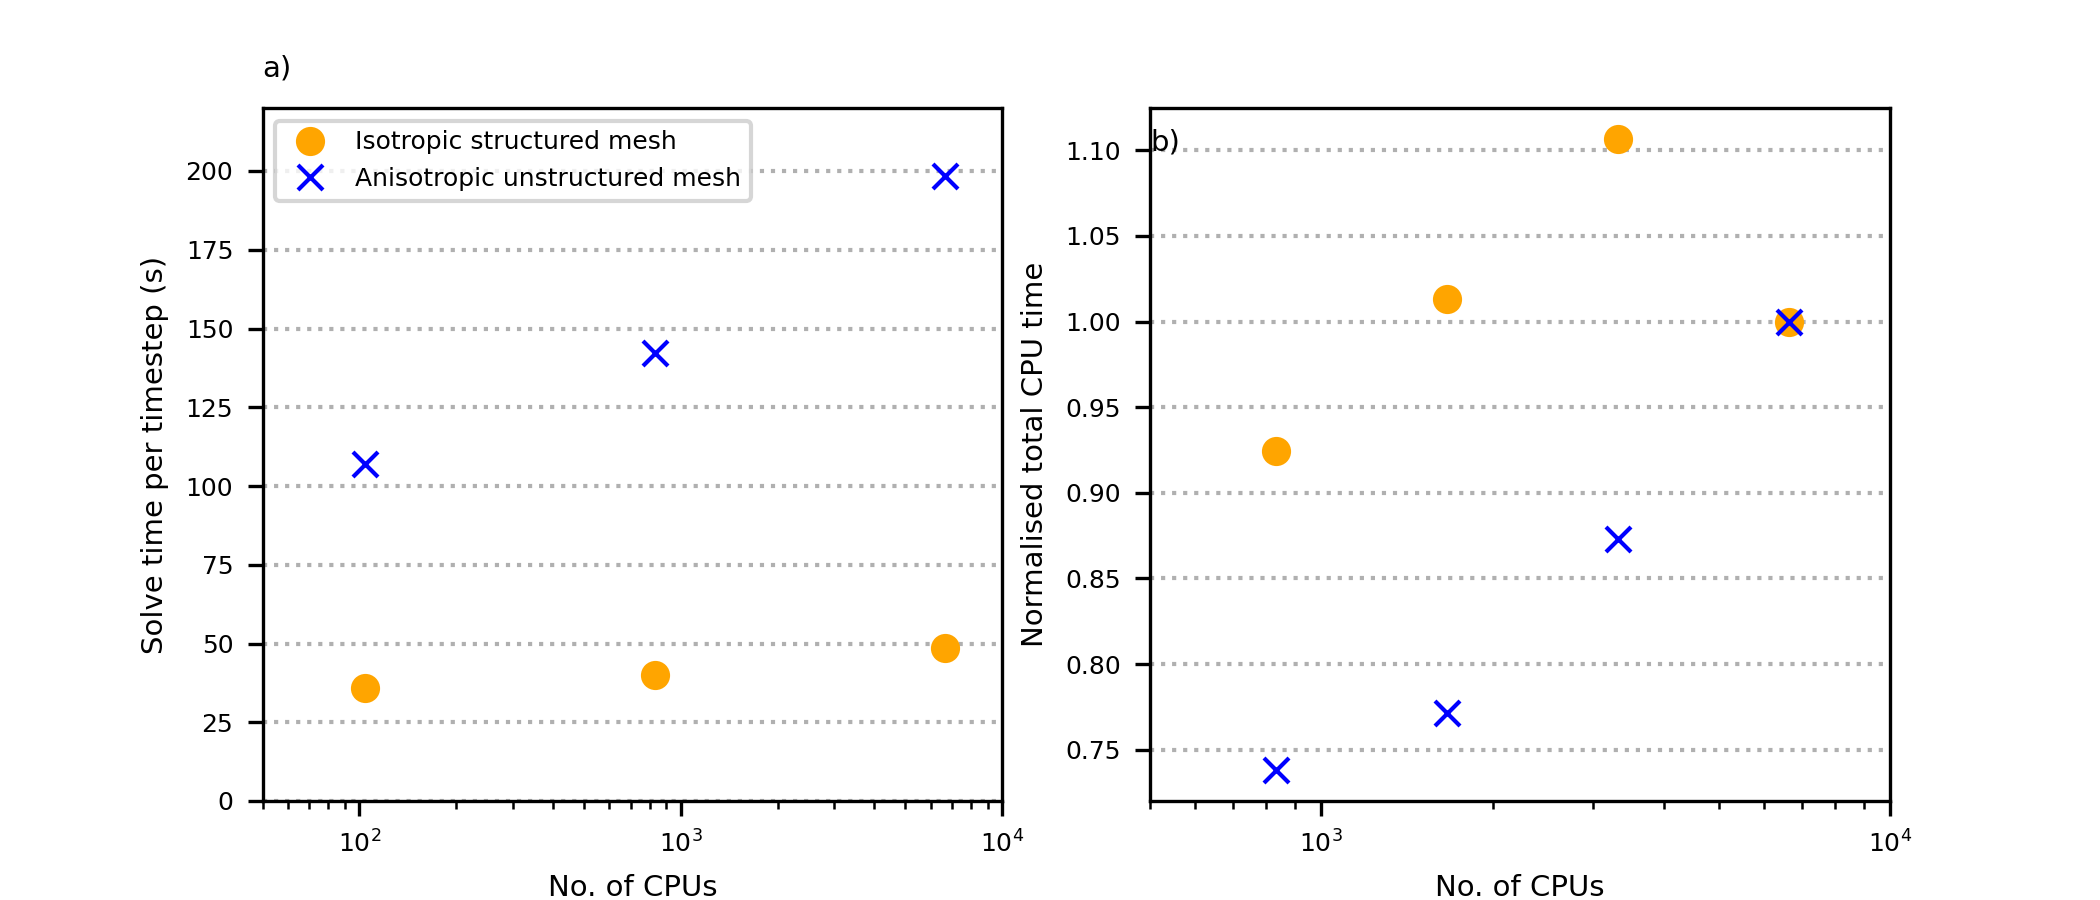
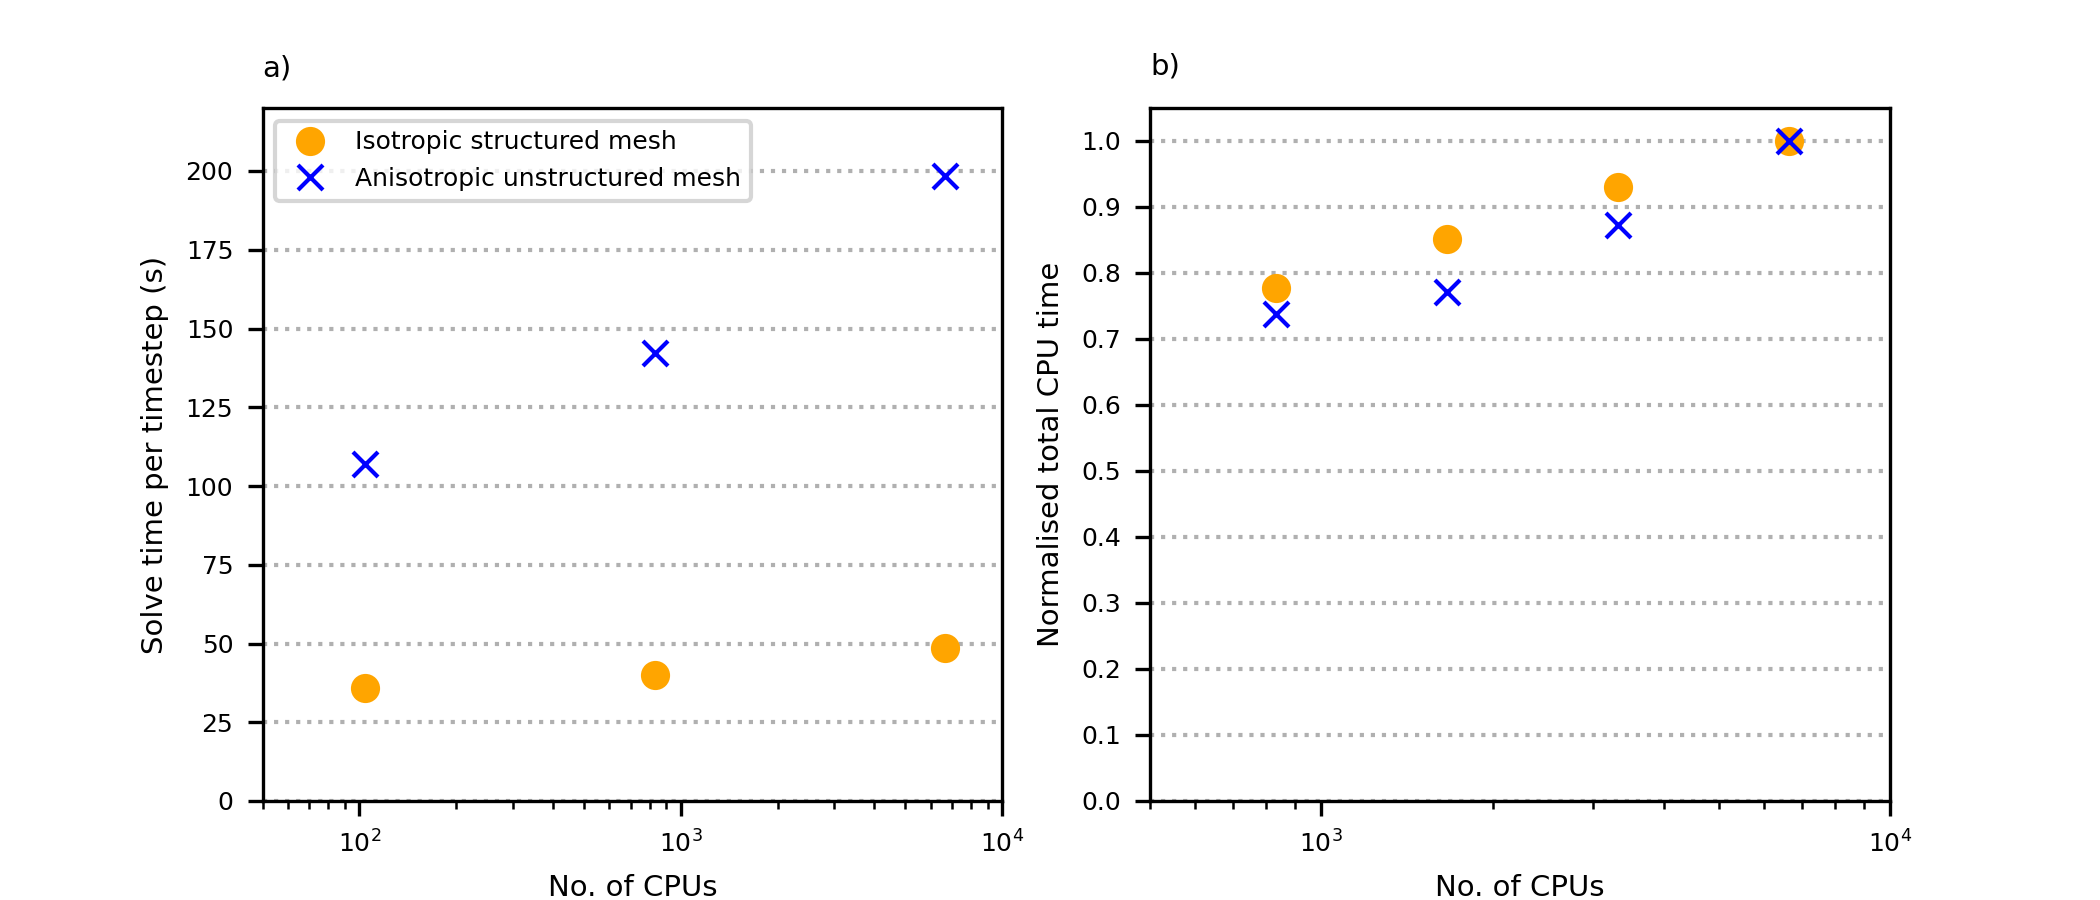
Add more yticks to Figure 5

diff --git a/parallel_scaling/internal_variable/plot_figure5_parallelscaling.py b/parallel_scaling/internal_variable/plot_figure5_parallelscaling.py
@@ -1,5 +1,5 @@
 import matplotlib.pyplot as plt
-import matplotlib
+import matplotlib.ticker as ticker
 import numpy as np
 
 
@@ -47,9 +47,10 @@ ax[1].semilogx(strong_unstructured[:, 0], total_cpu_time_unstructured_norm, colo
 ax[1].set_xlabel('No. of CPUs', fontsize=fs_lab)
 ax[1].set_ylabel('Normalised total CPU time', fontsize=fs_lab)
 ax[1].set_xlim((500,10000))
-#ax[1].set_ylim((0,220))
-ax[1].grid(True, axis='y', linestyle='dotted', linewidth=1)
-ax[1].tick_params(axis='both', which='major', labelsize=fs)
+ax[1].set_ylim((0,1.05))
+ax[1].yaxis.set_major_locator(ticker.MultipleLocator(0.1))
+ax[1].grid(True, axis='y', which='both', linestyle='dotted', linewidth=1)
+ax[1].tick_params(axis='both', which='both', labelsize=fs)
 ax[1].annotate('b)', (500, 1.1), fontsize=fs_lab, annotation_clip=False)
 
 figname = "Figure_5_parallelscaling_12.05.25"
